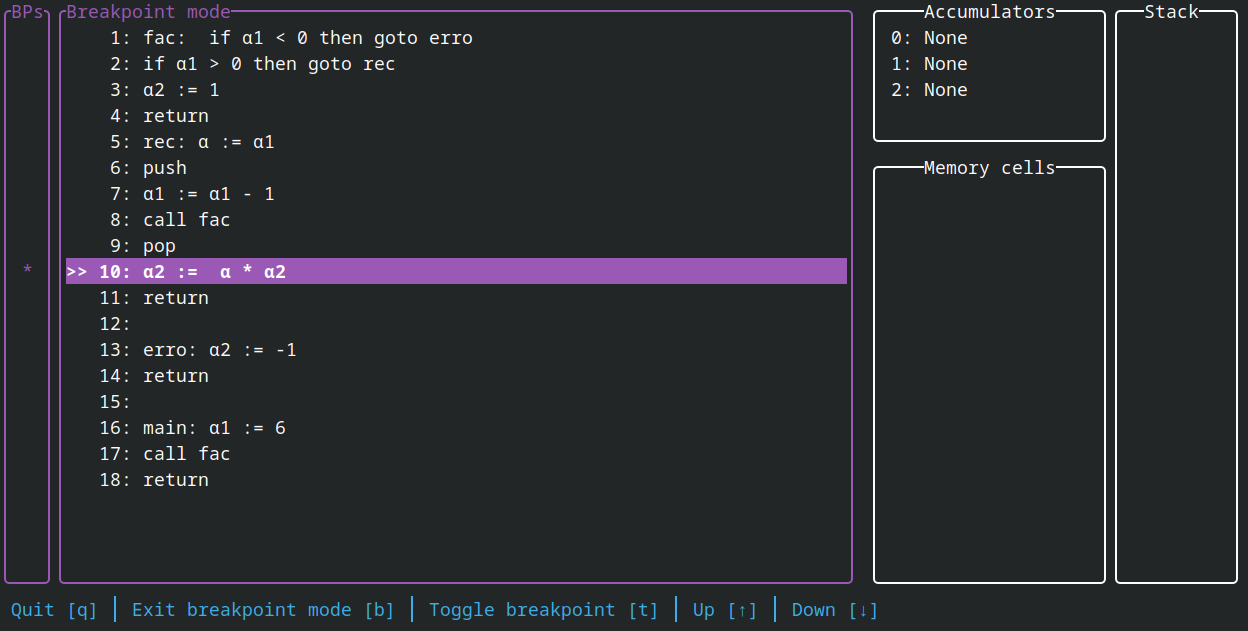
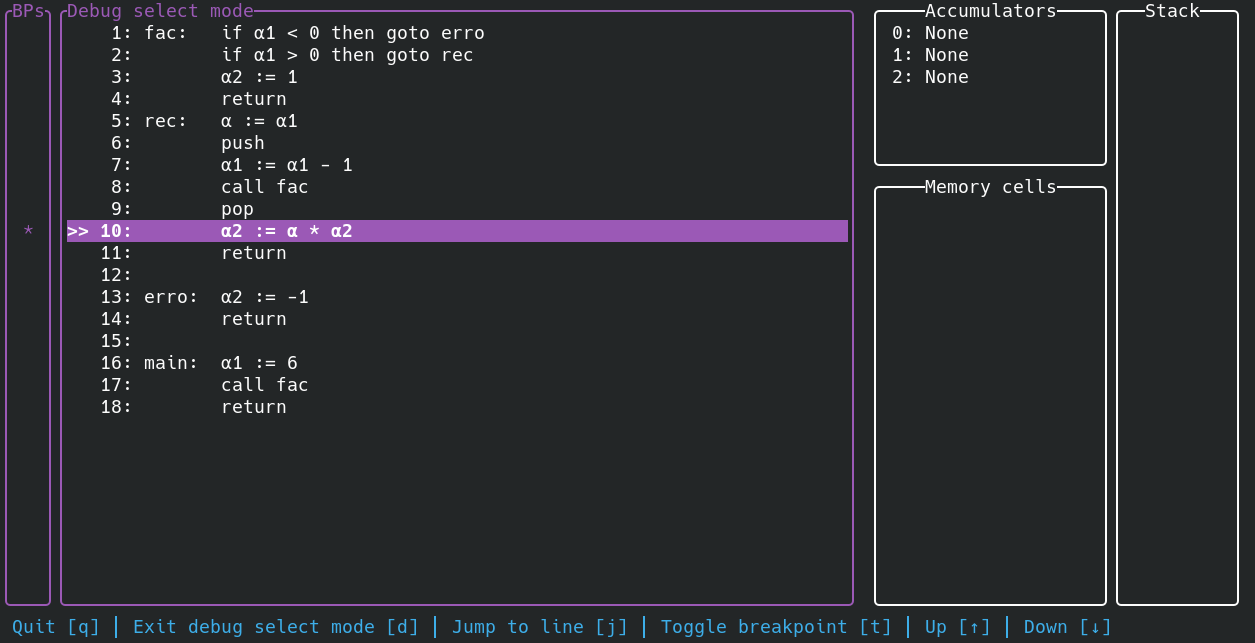
Updated documentation to include changes in #3

Changed region(s): [[0.0, 0.0, 1.0, 0.9937], [0.2188, 0.6624, 0.25, 0.6926]]

diff --git a/README.md b/README.md
@@ -43,15 +43,28 @@ Press `[r]` to begin to run the program, subsequent instructions can also be run
 
 When the last instruction was executed the following window is displayed. You can restart by pressing `[s]` or exit the program by pressing `[q]`. ![Program finished example](media/gui_program_finished.png)
 
-### Breakpoints
+### Debug features
+
+Some debug features require you to select a line in which a debug action should take place.
+
+You can enter debug select mode by pressing `[d]`, this could look like this: ![Debug select mode](media/gui_debug_select_mode.png)
+
+Navigate by using the `arrow keys`, for ease of use `[w]` and `[s]` are also supported.
+
+#### Breakpoints
 
 Breakpoints can be set to run all lines of code up until the line in which the breakpoint is set.
 
-Press `[b]` to enter breakpoint mode, it could look like this:![Breakpoint mode](media/gui_breakpoint_mode.png)
+To set a breakpoint enter `debug select mode` and press `[t]` in the line in which you want to set the breakpoint. A star to the left will indicate where a breakpoint is placed.
 
-Navigate by using the `arrow keys`, for ease of `[w]` and `[s]` are also supported. To `set` or `remove` a breakpoint in the selected line press the `[t]` key: ![Breakpoint set](media/gui_breakpoint_set.png)
+A placed breakpoint can look like this: ![Breakpoint set](media/gui_breakpoint_set.png)
 
-Exit breakpoint mode by pressing the `[b]` key again. Press `[n]` when in run mode to make the program run automatically to the next breakpoint (note how the values to the right have been updated): ![Next breakpoint](media/gui_breakpoint_mode_run.png)
+Press `[n]` when in run mode to make the program run automatically to the next breakpoint (note how the values to the right have been updated): ![Next breakpoint](media/gui_breakpoint_mode_run.png)
+
+#### Jump to line
+
+When in `debug select mode` you can select a line and jump directly to it using `[j]`, skipping all other instructions. You should however be careful when using this, because runtime errors are far more likely to occur due to uninitialized accumulators or memory cells.
+Functions may also no longer be properly exited because of a misaligned call stack.
 
 ### Error handling
 
